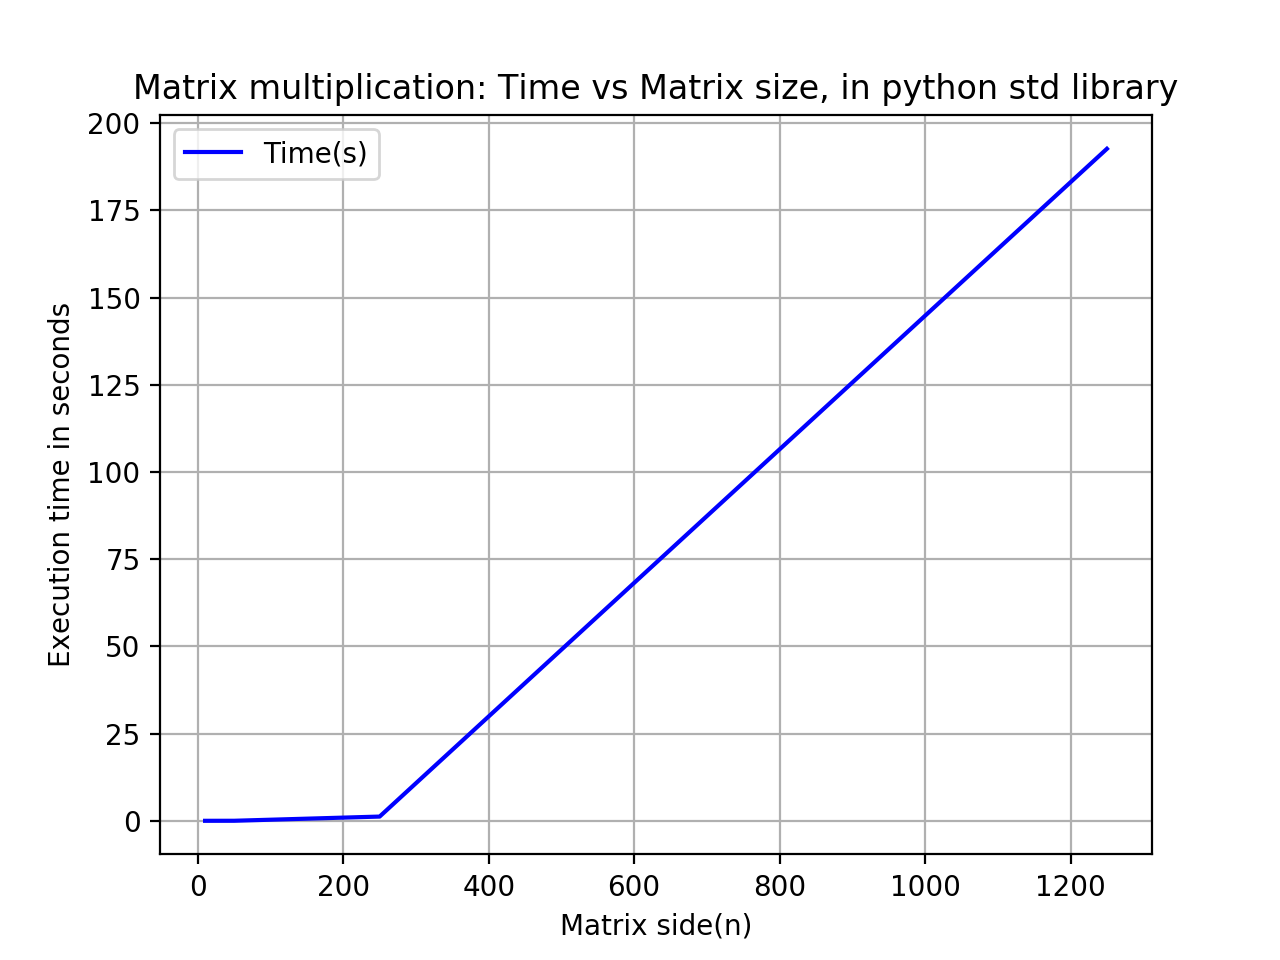
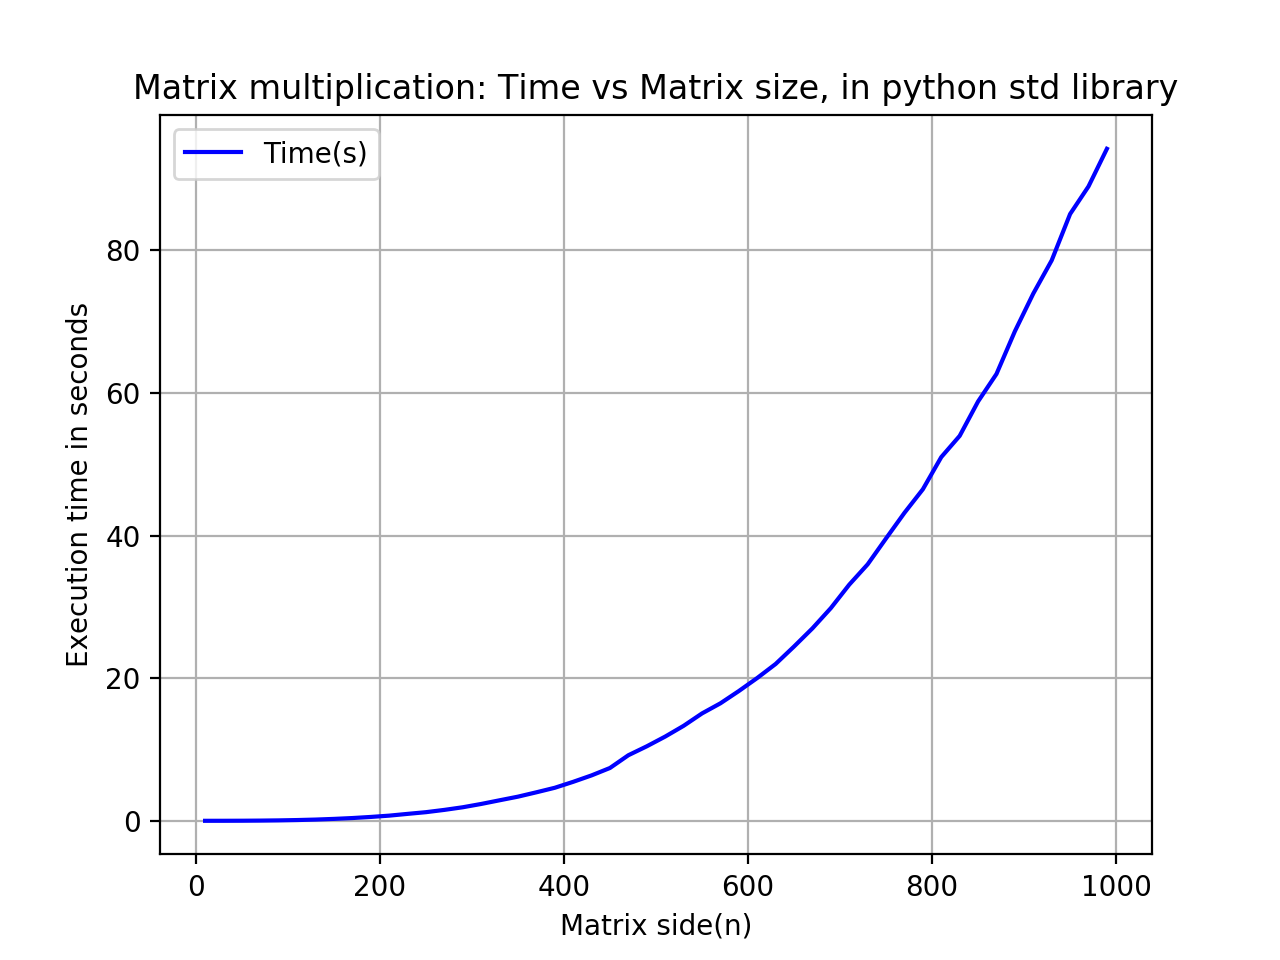
Graph changes

diff --git a/computation.py b/computation.py
@@ -33,21 +33,21 @@ def solver(type_):
     results = {}
     n = 10
     if type_ == 'std':
-        while n <= 1250:
+        while n <= 1000:
             matrix = matrix_gen(n)
             t = time.process_time()
             matrix_multiplication(matrix)
             elapsed_time = time.process_time() - t
             results[n] = elapsed_time
-            n *= 5
+            n += 20
     else:
-        while n <= 1250:
+        while n <= 1000:
             matrix = matrix_gen(n)
             t = time.process_time()
             numpy_matrix_mul(matrix)
             elapsed_time = time.process_time() - t
             results[n] = elapsed_time
-            n *= 5
+            n += 20
     return results
 
 
